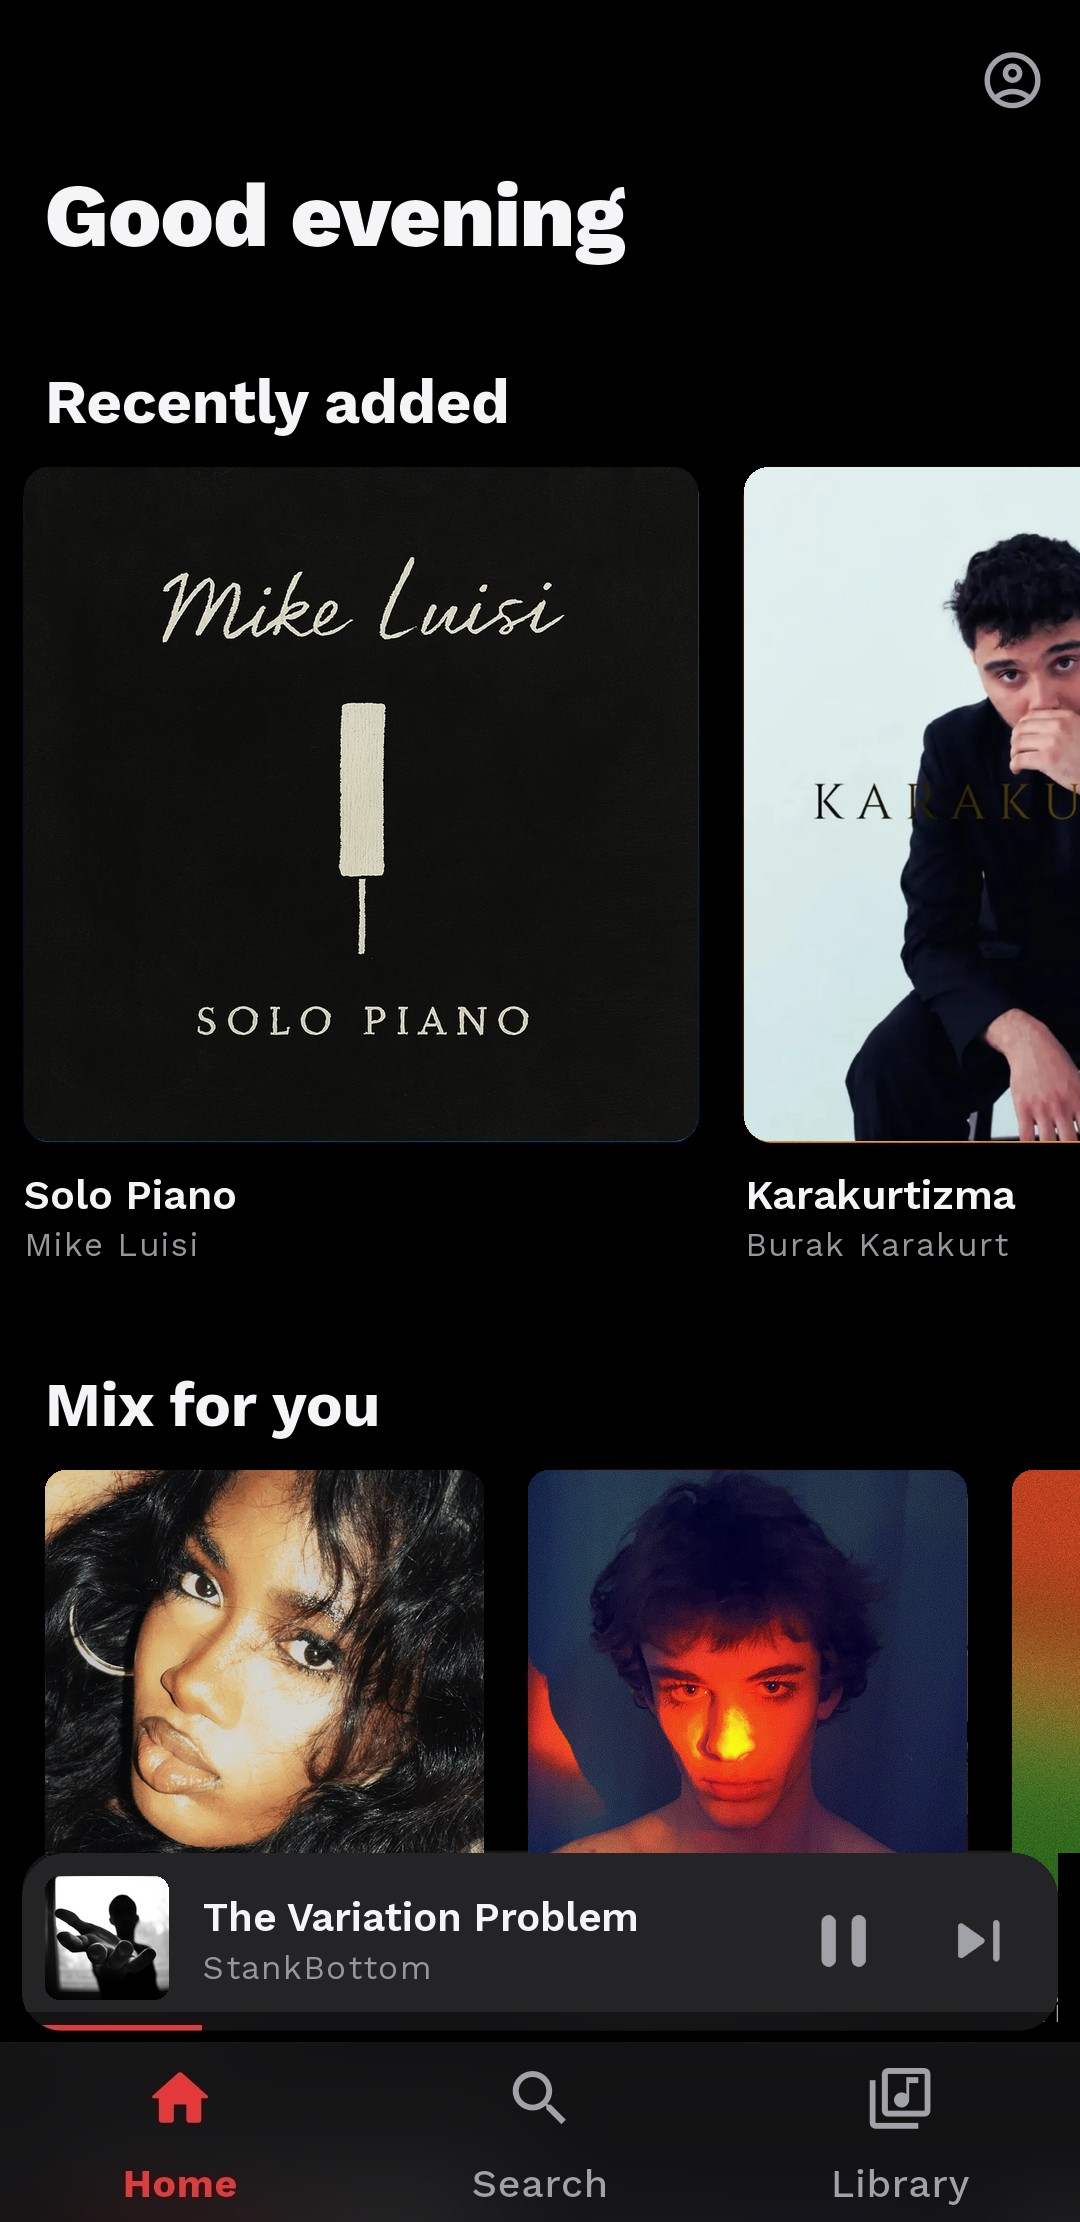
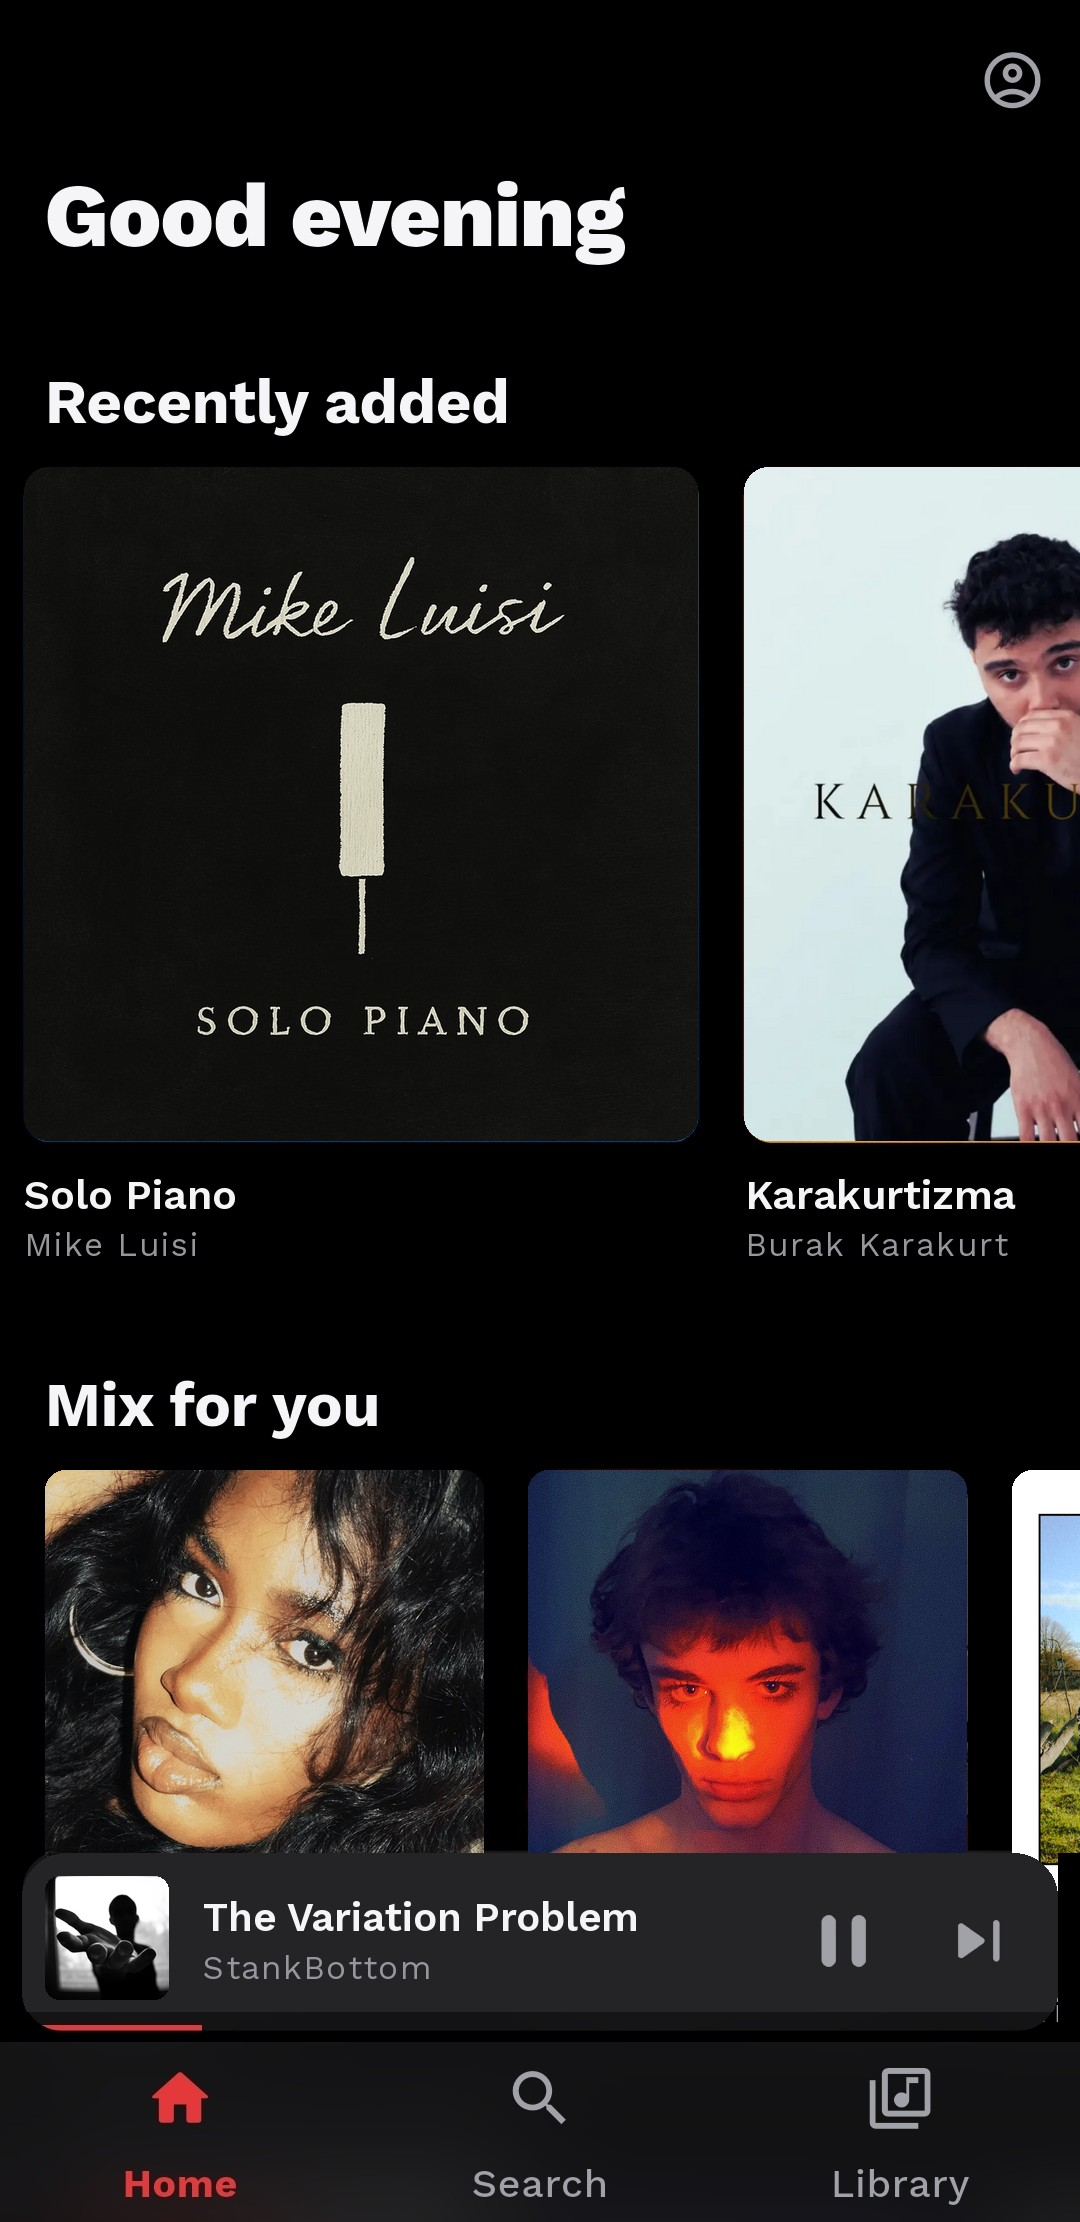
Screenshots: use a real album cover instead of a book cover
The Extinction file on Commons is a book cover, not an album; replaced
with the CC0 cover of Glitz' Winterglow.

Claude-Session: https://claude.ai/code/session_01E1H8Zpds6tokTNdVnwNT9i

Changed region(s): [[0.9167, 0.6521, 1.0, 0.8384]]

diff --git a/fastlane/metadata/android/en-US/images/phoneScreenshots/CREDITS.md b/fastlane/metadata/android/en-US/images/phoneScreenshots/CREDITS.md
@@ -9,4 +9,4 @@ from Wikimedia Commons. Song and artist names are those of the covers.
 - Imbecility Album Cover.jpg — Don Tushmadic, CC0: https://commons.wikimedia.org/wiki/File:Imbecility_Album_Cover.jpg
 - Album Cover The Variation Problem - StankBottom.png — lalesh aldarwish, CC0: https://commons.wikimedia.org/wiki/File:Album_Cover_The_Variation_Problem_-_StankBottom.png
 - Joey Bond Steel Dragonfly CD Cover Art.jpg — Michael Laucke, CC0: https://commons.wikimedia.org/wiki/File:Joey_Bond_Steel_Dragonfly_CD_Cover_Art.jpg
-- Extinction Cover 2.jpg — Uvuloid, CC0: https://commons.wikimedia.org/wiki/File:Extinction_Cover_2.jpg
+- Winterglow COVER (1).png — NoelBrouer, CC0: https://commons.wikimedia.org/wiki/File:Winterglow_COVER_(1).png
